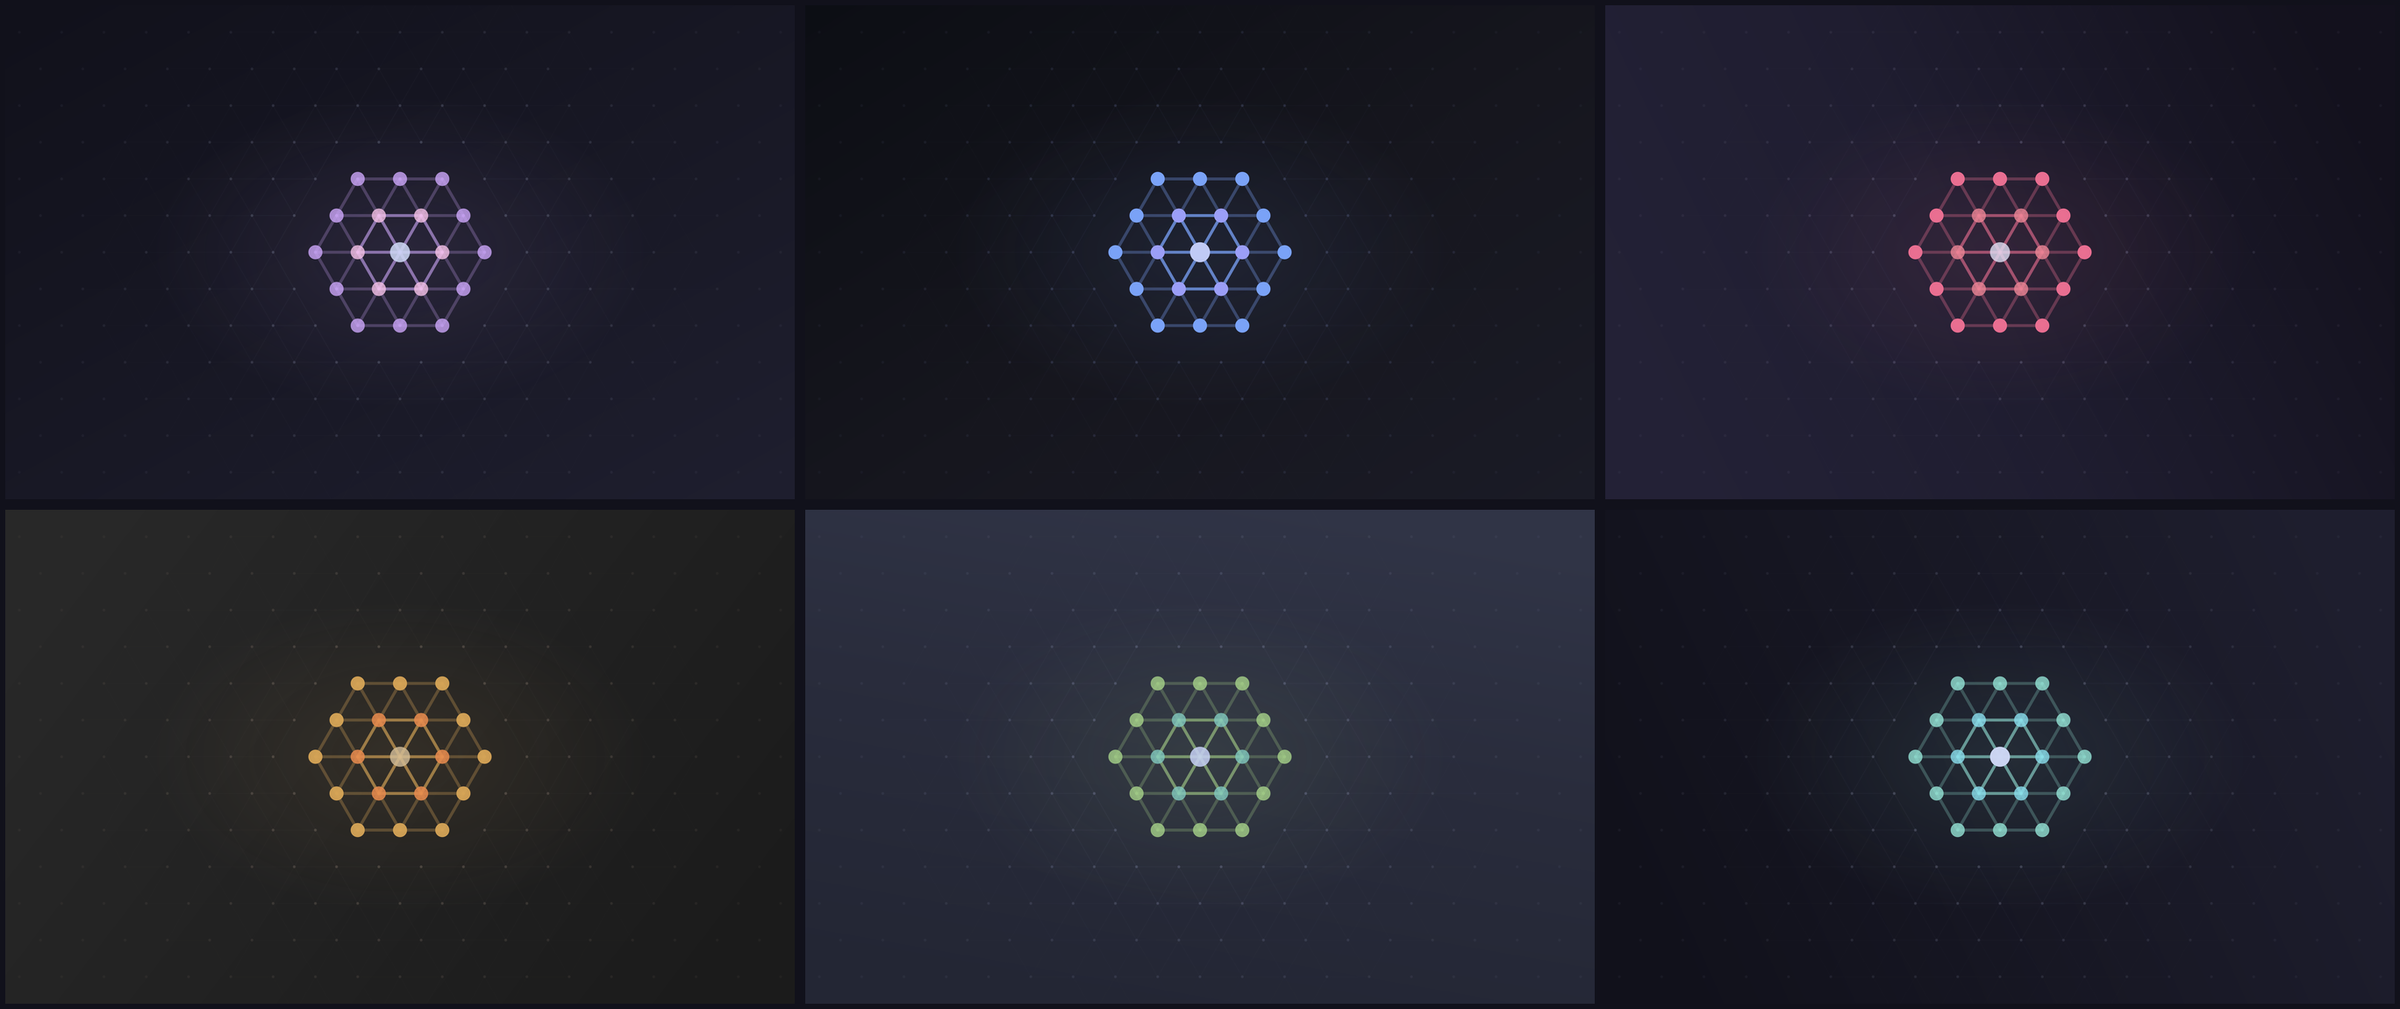
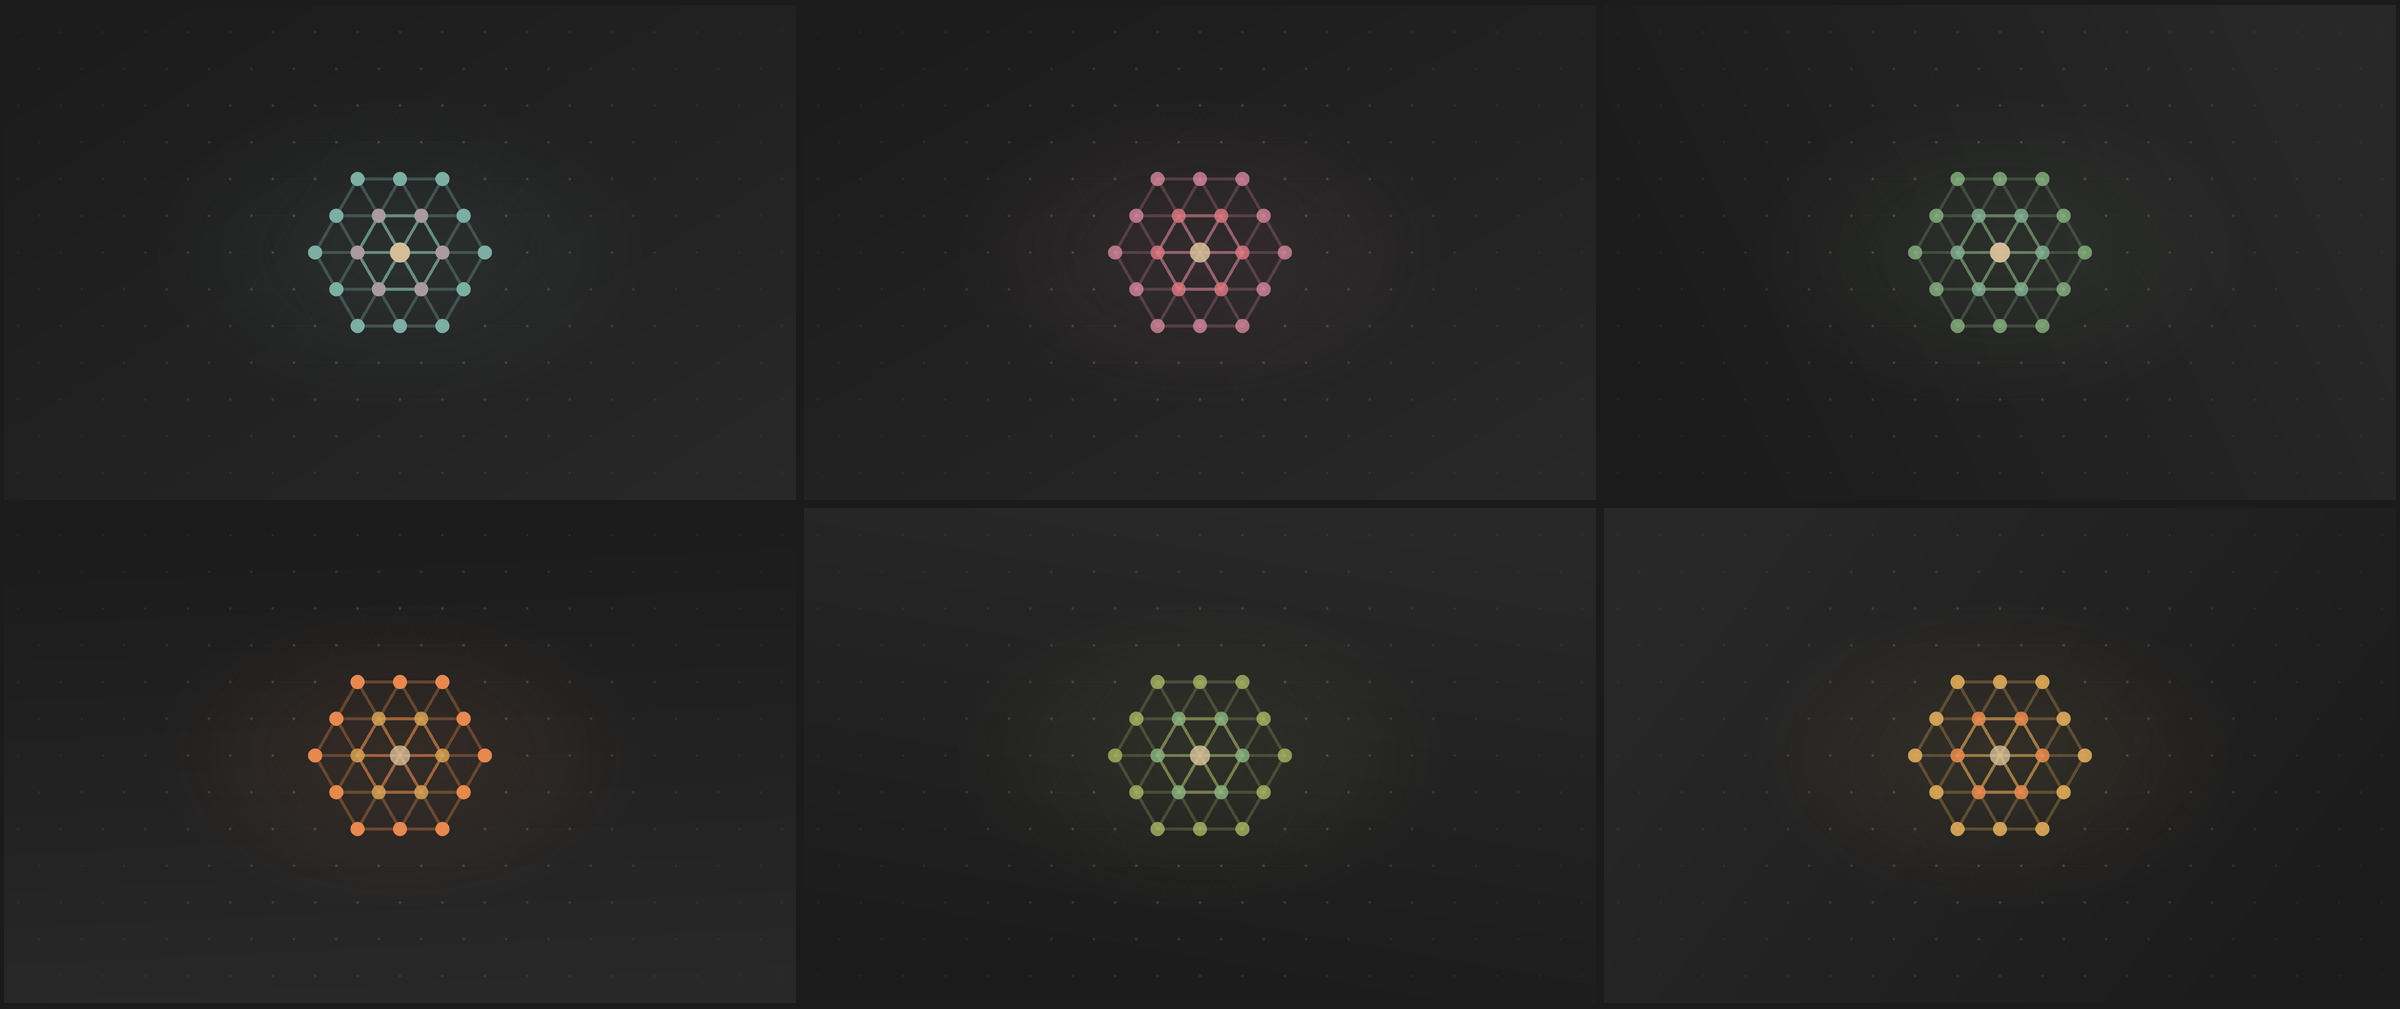
theme: Gruvbox Material is the default flavour; the README in it too
A new install now starts in Gruvbox Material with the blue accent, which is what the
build-time pieces (boot splash, greeter, console, deck) are drawn in. The README's badges
take its colours, the sops-nix badge goes, and the wallpaper collage shows its accents
instead of a flavour sampler. The banner stays as it is.

diff --git a/README.md b/README.md
@@ -3,14 +3,13 @@
 </p>
 
 <p align="center">
-  <a href="https://nixos.org"><img src="https://img.shields.io/badge/NixOS-unstable-89B4FA?style=flat-square&labelColor=313244&logo=nixos&logoColor=CDD6F4" alt="NixOS unstable"></a>
-  <a href="https://hyprland.org"><img src="https://img.shields.io/badge/Hyprland-Wayland-94E2D5?style=flat-square&labelColor=313244" alt="Hyprland"></a>
-  <a href="https://asahilinux.org"><img src="https://img.shields.io/badge/runs%20on-Apple%20Silicon-F5C2E7?style=flat-square&labelColor=313244" alt="Apple Silicon"></a>
-  <a href="https://github.com/TWinston-66/lattice/actions/workflows/ci.yml"><img src="https://img.shields.io/github/actions/workflow/status/TWinston-66/lattice/ci.yml?event=pull_request&style=flat-square&label=CI&labelColor=313244" alt="CI"></a>
-  <a href="https://github.com/Mic92/sops-nix"><img src="https://img.shields.io/badge/secrets-sops--nix-B4BEFE?style=flat-square&labelColor=313244" alt="sops-nix"></a>
-  <a href="https://github.com/TWinston-66/lattice/commits/main"><img src="https://img.shields.io/github/last-commit/TWinston-66/lattice?style=flat-square&color=A6E3A1&labelColor=313244" alt="Last commit"></a>
-  <a href="https://github.com/TWinston-66/.dotfiles"><img src="https://img.shields.io/badge/dotfiles-.dotfiles-FAB387?style=flat-square&labelColor=313244&logo=github&logoColor=CDD6F4" alt="The dotfiles"></a>
-  <a href="LICENSE"><img src="https://img.shields.io/badge/license-MIT-CBA6F7?style=flat-square&labelColor=313244" alt="MIT license"></a>
+  <a href="https://nixos.org"><img src="https://img.shields.io/badge/NixOS-unstable-7DAEA3?style=flat-square&labelColor=32302F&logo=nixos&logoColor=D4BE98" alt="NixOS unstable"></a>
+  <a href="https://hyprland.org"><img src="https://img.shields.io/badge/Hyprland-Wayland-89B482?style=flat-square&labelColor=32302F" alt="Hyprland"></a>
+  <a href="https://asahilinux.org"><img src="https://img.shields.io/badge/runs%20on-Apple%20Silicon-DF787F?style=flat-square&labelColor=32302F" alt="Apple Silicon"></a>
+  <a href="https://github.com/TWinston-66/lattice/actions/workflows/ci.yml"><img src="https://img.shields.io/github/actions/workflow/status/TWinston-66/lattice/ci.yml?event=pull_request&style=flat-square&label=CI&labelColor=32302F" alt="CI"></a>
+  <a href="https://github.com/TWinston-66/lattice/commits/main"><img src="https://img.shields.io/github/last-commit/TWinston-66/lattice?style=flat-square&color=A9B665&labelColor=32302F" alt="Last commit"></a>
+  <a href="https://github.com/TWinston-66/.dotfiles"><img src="https://img.shields.io/badge/dotfiles-.dotfiles-E78A4E?style=flat-square&labelColor=32302F&logo=github&logoColor=D4BE98" alt="The dotfiles"></a>
+  <a href="LICENSE"><img src="https://img.shields.io/badge/license-MIT-D3869B?style=flat-square&labelColor=32302F" alt="MIT license"></a>
 </p>
 
 <p align="center">
@@ -108,8 +107,8 @@
 </table>
 
 <p align="center">
-  <img src=".github/assets/screenshots/wallpapers.png" alt="Generated wallpapers across flavours and accents" width="100%">
-  <br><sub>The wallpapers aren't downloaded. <code>lattice art</code> draws them at build time, one per accent in each flavour, sized for each screen.</sub>
+  <img src=".github/assets/screenshots/wallpapers.png" alt="Generated wallpapers in Gruvbox Material's accents" width="100%">
+  <br><sub>The wallpapers aren't downloaded. <code>lattice art</code> draws them at build time, one per accent in each flavour (Gruvbox Material's here), sized for each screen.</sub>
 </p>
 
 ## What's inside

diff --git a/docs/configuring.md b/docs/configuring.md
@@ -34,8 +34,8 @@ panel geometry, and names its user. Optional features are switched on per host:
 ## The theme
 
 ```nix
-lattice.theme.flavor = "mocha";   # what boot, the greeter and the console are drawn in
-lattice.theme.accent = "mauve";   # the default accent: any palette entry
+lattice.theme.flavor = "gruvbox-material";   # what boot, the greeter and the console are drawn in
+lattice.theme.accent = "blue";               # the default accent: any palette entry
 ```
 
 `lattice.theme` holds the palette, the flavours and the accent, and generated theme kits
